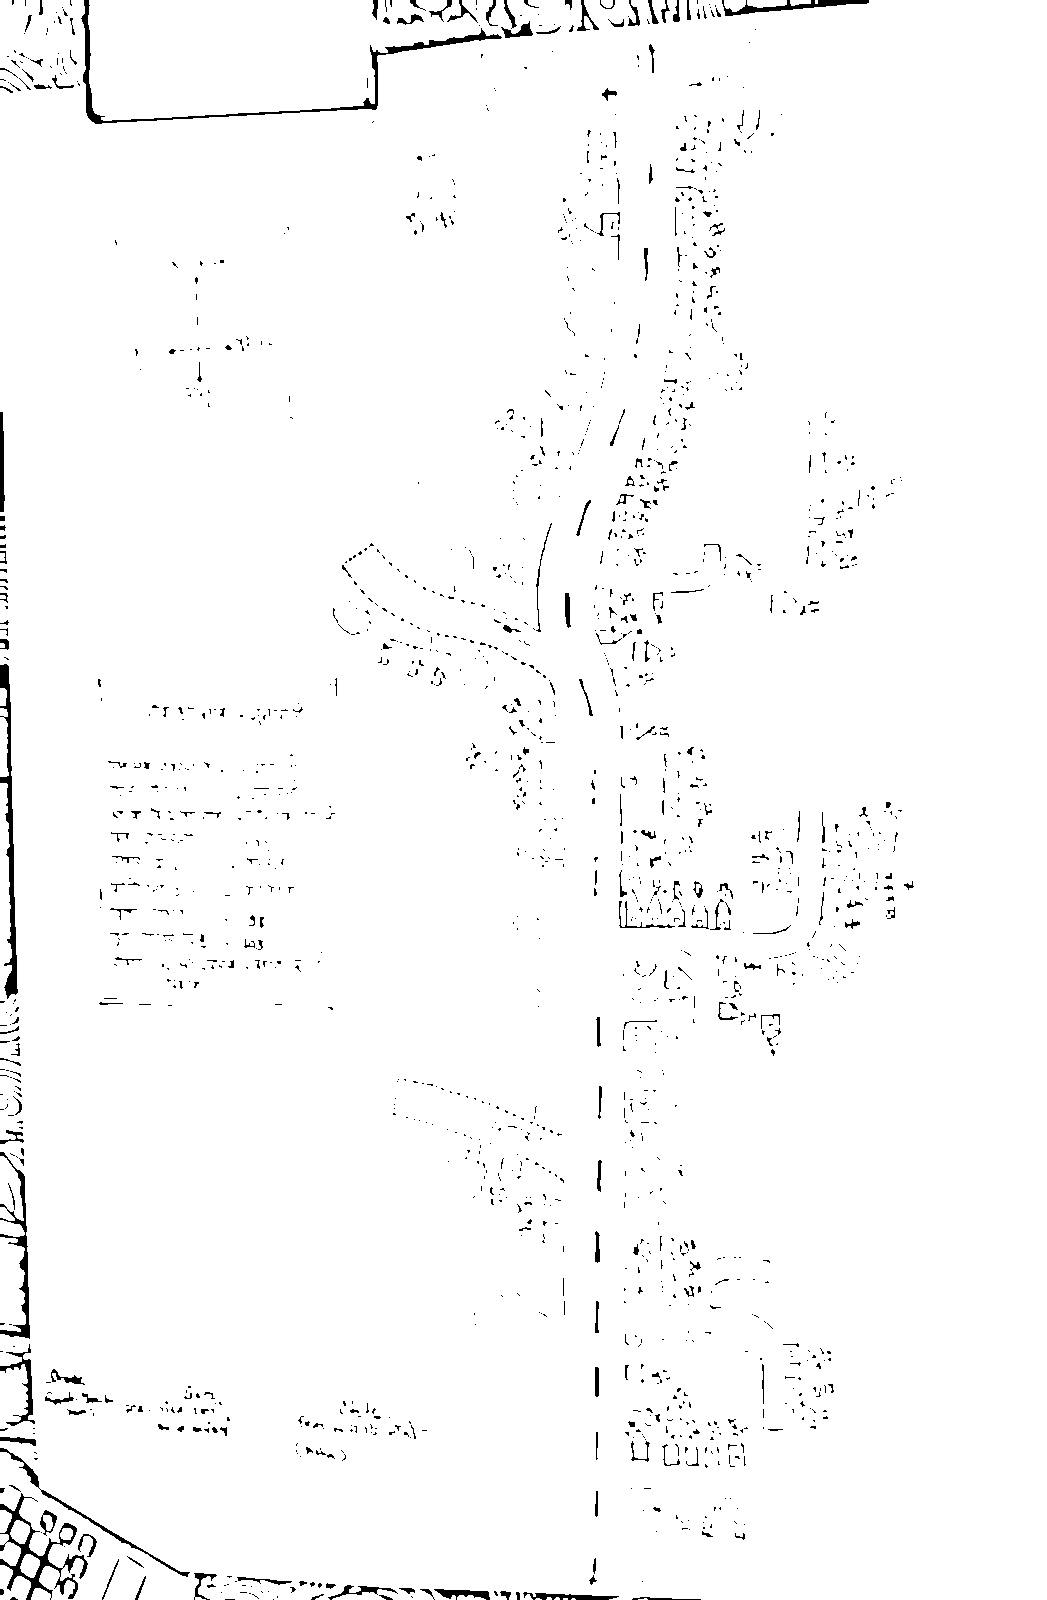
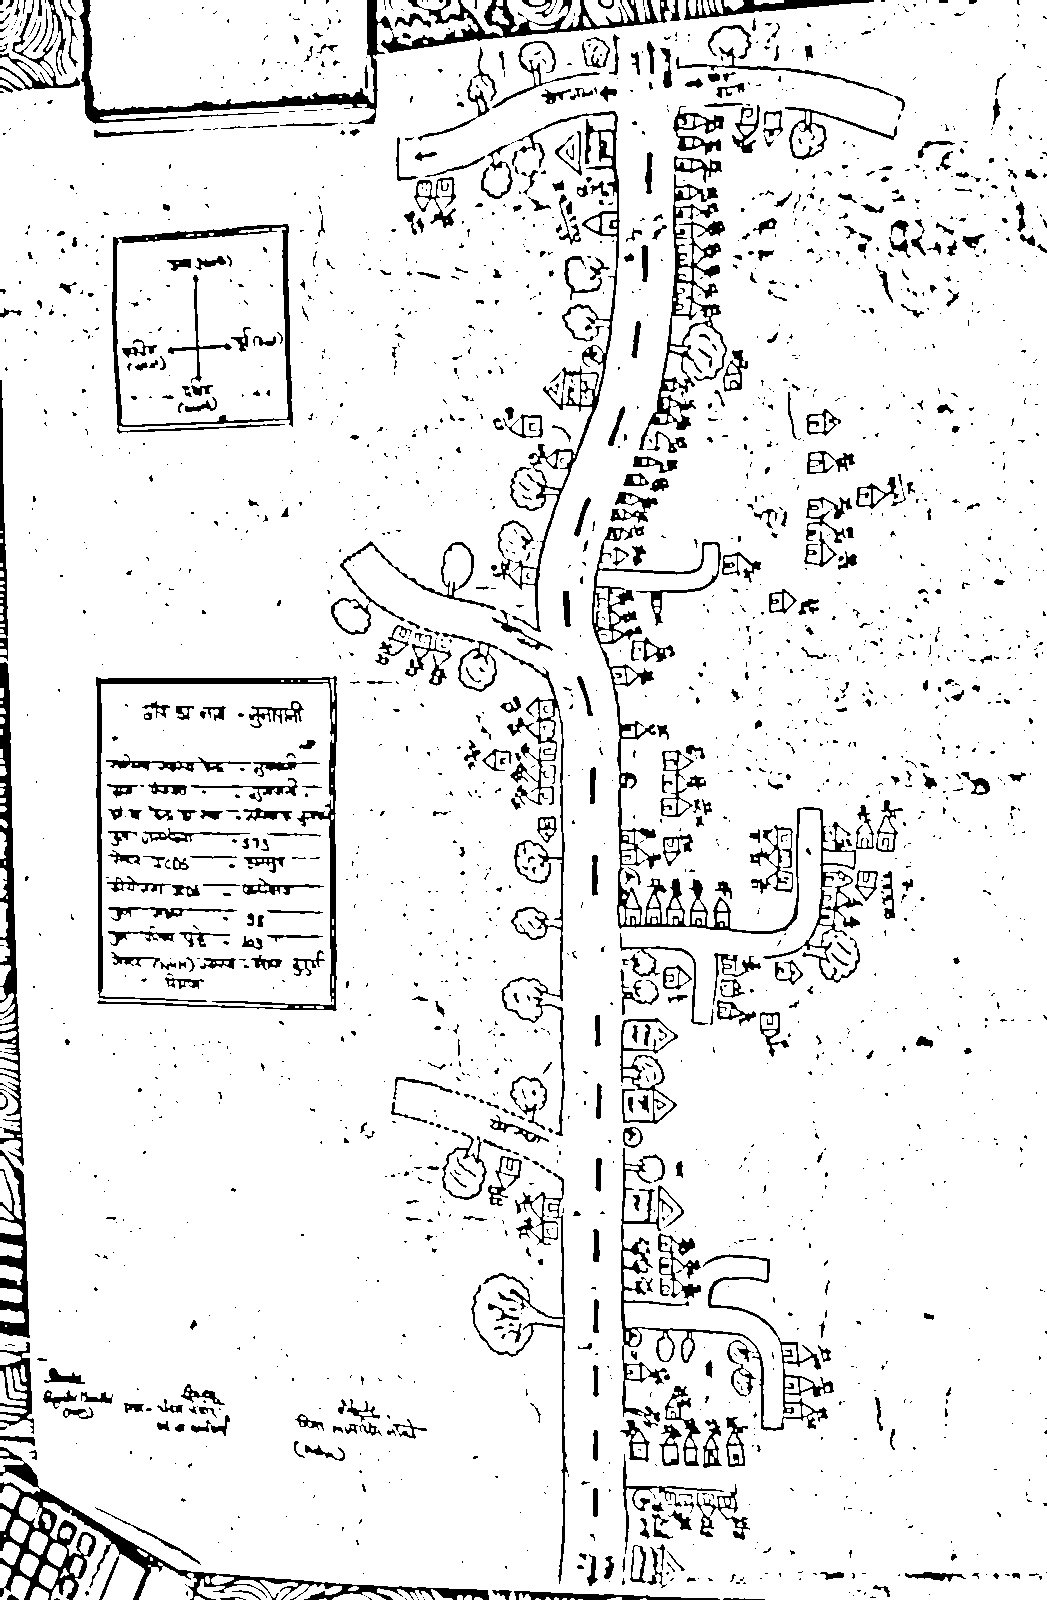
Fix Map 2 processing parameters to prevent shattered lines

diff --git a/app.js b/app.js
@@ -42,7 +42,7 @@ const villageConfig = {
   village2: {
     name: "Junapani (Map 2)",
     center: [74.6942, 21.6899],
-    imageOverlayUrl: "/map2_stylized.jpeg?v=3", 
+    imageOverlayUrl: "/map2_stylized.jpeg?v=4", 
     imageCoordinates: [
       [74.6842, 21.7049], // top-left
       [74.7042, 21.7049], // top-right